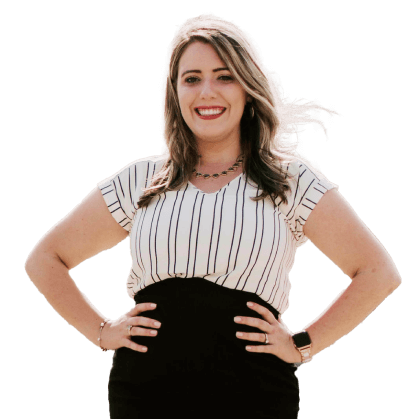
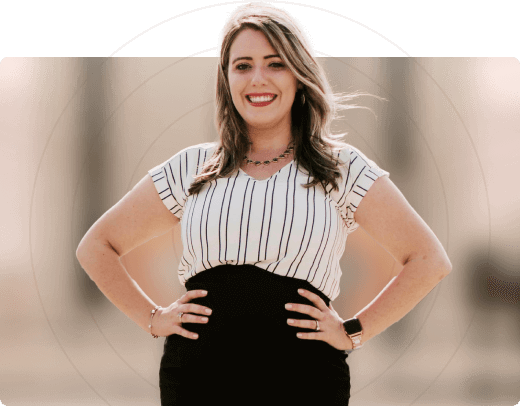
feat(why becca): images changed, buttons fixed, carousel fixed

diff --git a/src/layout/why-becca/sections/hero/hero.tsx b/src/layout/why-becca/sections/hero/hero.tsx
@@ -1,11 +1,15 @@
-import { Box, Button } from '@common'
+import { Button, Flex } from '@common'
 import { Hat } from '@shared'
 import Image from 'next/image'
 import * as S from './hero.styles'
-import { background, becca } from './images'
-import { ArrowDownSvg, CirclesSvg } from './svgs'
+import { becca } from './images'
+import { ArrowDownSvg } from './svgs'
 
 export function Hero() {
+  function scrollTo() {
+    window.scrollTo(0, 700)
+  }
+
   return (
     <S.Section>
       <S.Container>
@@ -16,74 +20,17 @@ export function Hero() {
             From finding you your dream home to negotiating on behalf of clients, we have
             every aspect covered and more!
           </S.Paragraph>
-          <Box css={{ display: 'flex', alignItems: 'center', gap: 24 }}>
-            <Button
-              css={{
-                padding: '12px 24px',
-                borderRadius: '6px',
-
-                fontWeight: '500',
-                fontSize: '14px',
-                lineHeight: '22px',
-                color: '$white',
-              }}
-            >
+          <Flex css={{ gap: 24 }}>
+            <Button size="2" href="/contact-us">
               Contact Becca Travis
             </Button>
-            <Button
-              css={{
-                display: 'flex',
-                alignItems: 'center',
-                justifyContent: 'flex-start',
-                gap: 8,
-
-                padding: 0,
-
-                fontWeight: '400',
-                fontSize: '16px',
-                lineHeight: '20px',
-                color: 'rgba($colors$magenta6Rgb, 0.5)',
-
-                backgroundColor: 'transparent',
-              }}
-            >
+            <S.KeepExploring onClick={scrollTo}>
               <ArrowDownSvg /> Keep exploring
-            </Button>
-          </Box>
+            </S.KeepExploring>
+          </Flex>
         </div>
 
-        <Box
-          css={{
-            display: 'flex',
-            alignItems: 'center',
-            justifyContent: 'center',
-
-            position: 'relative',
-            width: '520px',
-            height: '100%',
-          }}
-        >
-          <Image src={becca} alt="Becca Travis" quality={100} />
-          <Box
-            css={{
-              position: 'absolute',
-              bottom: '-4px',
-              zIndex: '-2',
-              borderRadius: '8px',
-            }}
-          >
-            <Image src={background} alt="background" quality={100} />
-          </Box>
-          <Box
-            css={{
-              position: 'absolute',
-              top: 13,
-              zIndex: '0',
-            }}
-          >
-            <CirclesSvg />
-          </Box>
-        </Box>
+        <Image src={becca} quality={100} alt="Becca Travis photo" />
       </S.Container>
     </S.Section>
   )

diff --git a/src/layout/why-becca/sections/awards/carousel/carousel.styles.ts b/src/layout/why-becca/sections/awards/carousel/carousel.styles.ts
@@ -10,8 +10,6 @@ const slide = keyframes({
 })
 
 export const Container = styled('div', {
-  maxWidth: '1280px',
-  margin: '0 auto',
   height: '280px',
   background: '$tangerine10',
 
@@ -26,7 +24,7 @@ export const Container = styled('div', {
 export const AwardsWrapper = styled('div', {
   display: 'flex',
   alignItems: 'center',
-  gap: 40,
+  gap: 64,
 
   animation: `${slide} 40s linear infinite reverse`,
 
@@ -48,7 +46,7 @@ export const Award = styled('div', {
 export const AwardsBackground = styled('div', {
   width: '100%',
   height: '100%',
-  background: `linear-gradient(90deg, #F5DED0 -15.59%, rgba(245, 222, 208, 0) 16.76%, rgba(245, 222, 208, 0) 50.45%, rgba(245, 222, 208, 0) 82.12%, #F5DED0 113.79%)`,
+  background: `linear-gradient(90deg, #F5DED0 -15.59%, #F5DED0 -0.13%, rgba(245, 222, 208, 0) 50.45%, #F5DED0 100.33%, #F5DED0 113.79%)`,
 
   position: 'absolute',
   top: 0,

diff --git a/src/layout/why-becca/sections/awards/carousel/carousel.tsx b/src/layout/why-becca/sections/awards/carousel/carousel.tsx
@@ -54,6 +54,20 @@ export function Carousel() {
           </S.Award>
         ))}
       </S.AwardsWrapper>
+      <S.AwardsWrapper>
+        {awards.map(award => (
+          <S.Award key={award.alt}>
+            <Image src={award.src} alt={award.alt} />
+          </S.Award>
+        ))}
+      </S.AwardsWrapper>
+      <S.AwardsWrapper>
+        {awards.map(award => (
+          <S.Award key={award.alt}>
+            <Image src={award.src} alt={award.alt} />
+          </S.Award>
+        ))}
+      </S.AwardsWrapper>
     </S.Container>
   )
 }

diff --git a/src/layout/why-becca/sections/hero/hero.styles.ts b/src/layout/why-becca/sections/hero/hero.styles.ts
@@ -33,3 +33,19 @@ export const Paragraph = styled('p', {
   lineHeight: '28px',
   color: '$gray2',
 })
+
+export const KeepExploring = styled('button', {
+  display: 'flex',
+  alignItems: 'center',
+  justifyContent: 'flex-start',
+  gap: 8,
+
+  padding: 0,
+
+  fontWeight: '400',
+  fontSize: '16px',
+  lineHeight: '20px',
+  color: 'rgba($colors$magenta6Rgb, 0.5)',
+
+  backgroundColor: 'transparent',
+})

diff --git a/src/layout/why-becca/sections/white-glove/white-glove.tsx b/src/layout/why-becca/sections/white-glove/white-glove.tsx
@@ -72,7 +72,7 @@ export function WhiteGlove() {
         css={{
           width: '520px',
           height: '552px',
-          background: '$magenta5',
+          background: '$grayW10',
           borderRadius: '8px',
         }}
       ></Box>

diff --git a/src/layout/why-becca/sections/hero/svgs/index.ts b/src/layout/why-becca/sections/hero/svgs/index.ts
@@ -1,2 +1,1 @@
 export { default as ArrowDownSvg } from './arrow-down'
-export { default as CirclesSvg } from './circles'

diff --git a/src/layout/why-becca/sections/hero/images/index.ts b/src/layout/why-becca/sections/hero/images/index.ts
@@ -1,2 +1,1 @@
-export { default as background } from './background.jpg'
 export { default as becca } from './becca.png'
